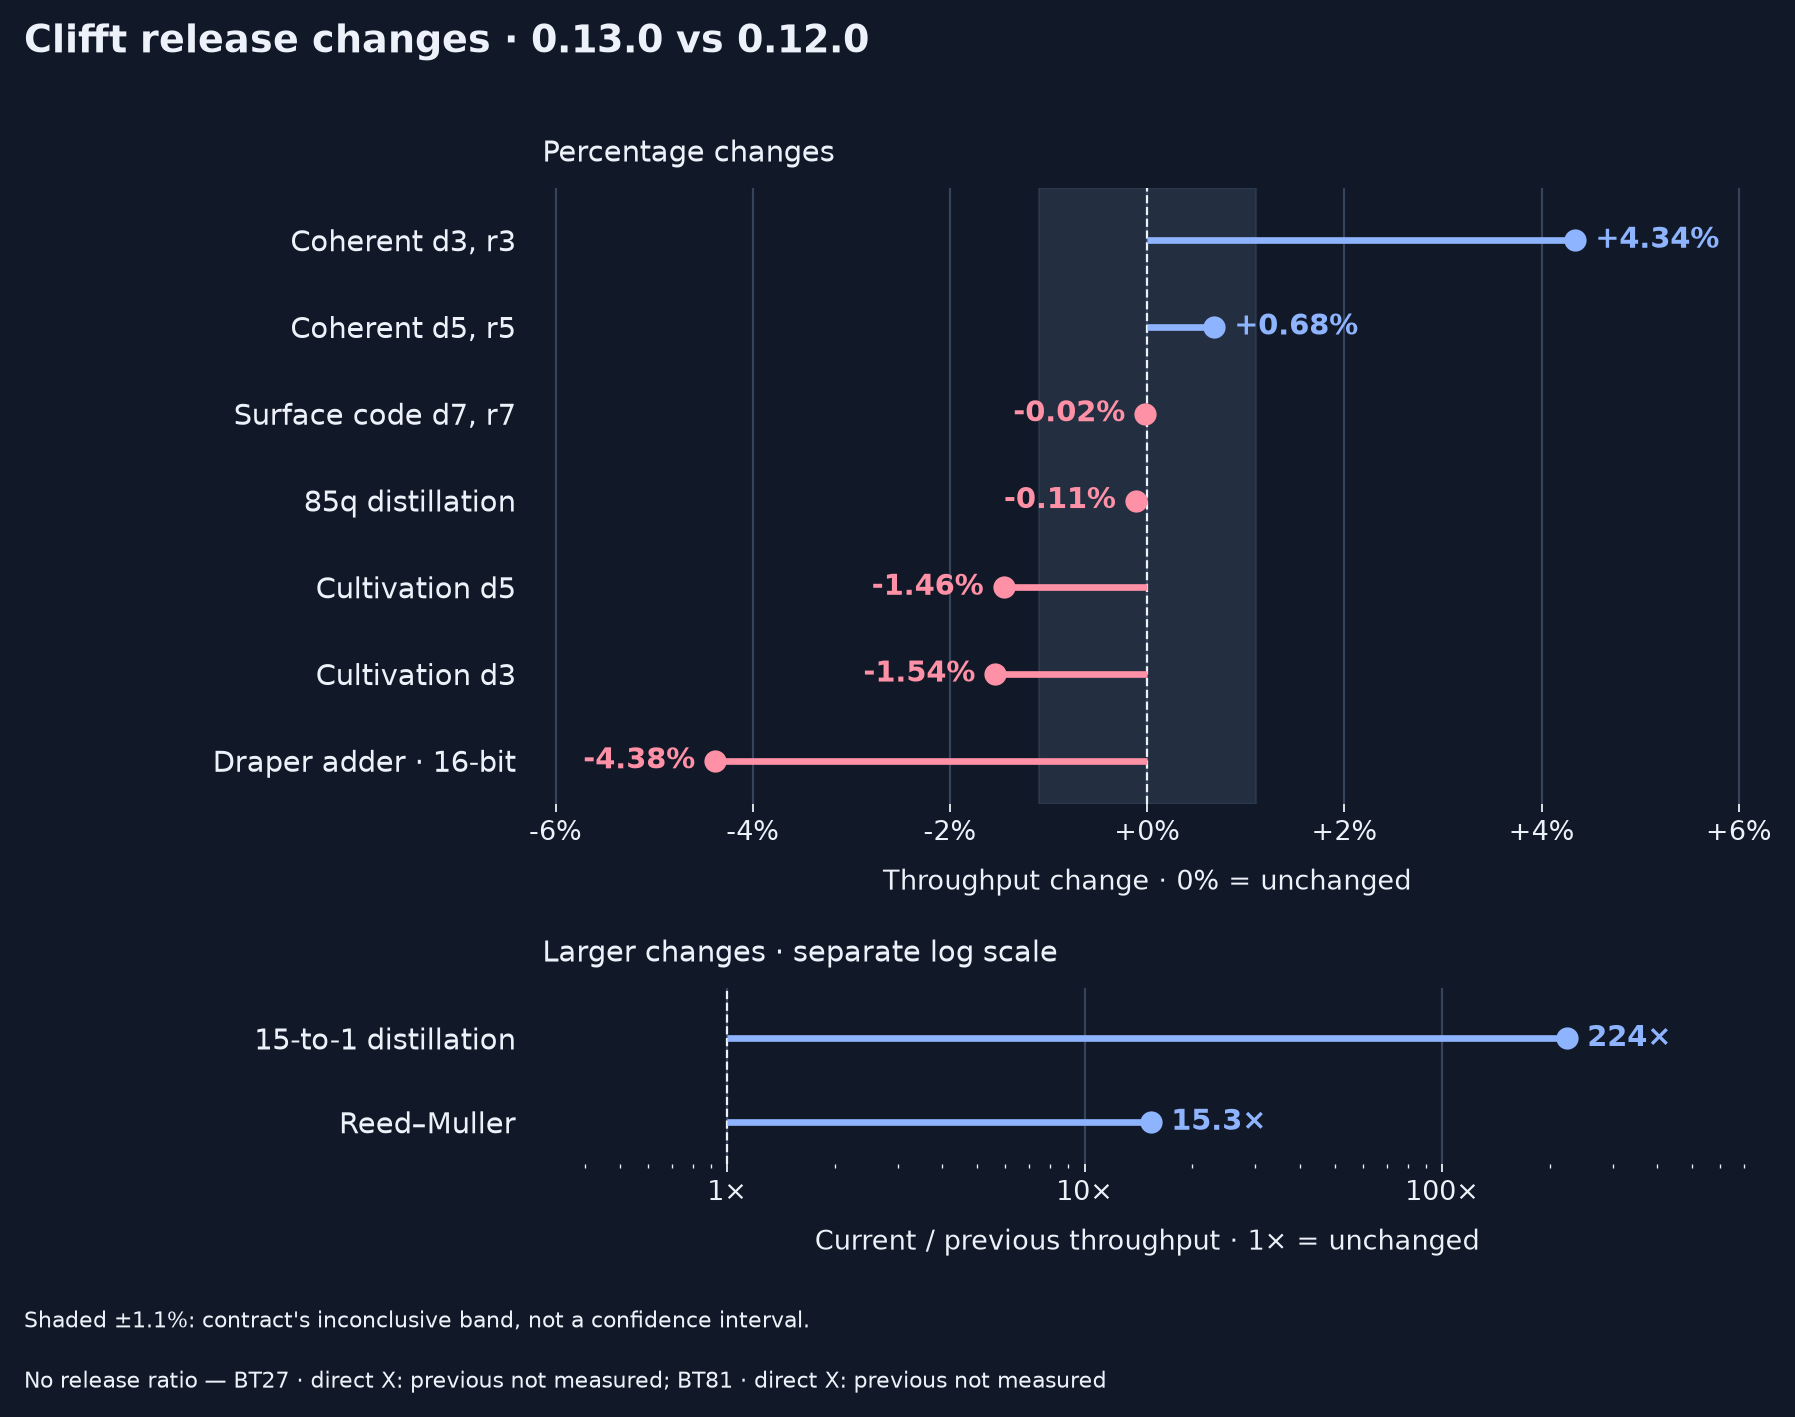
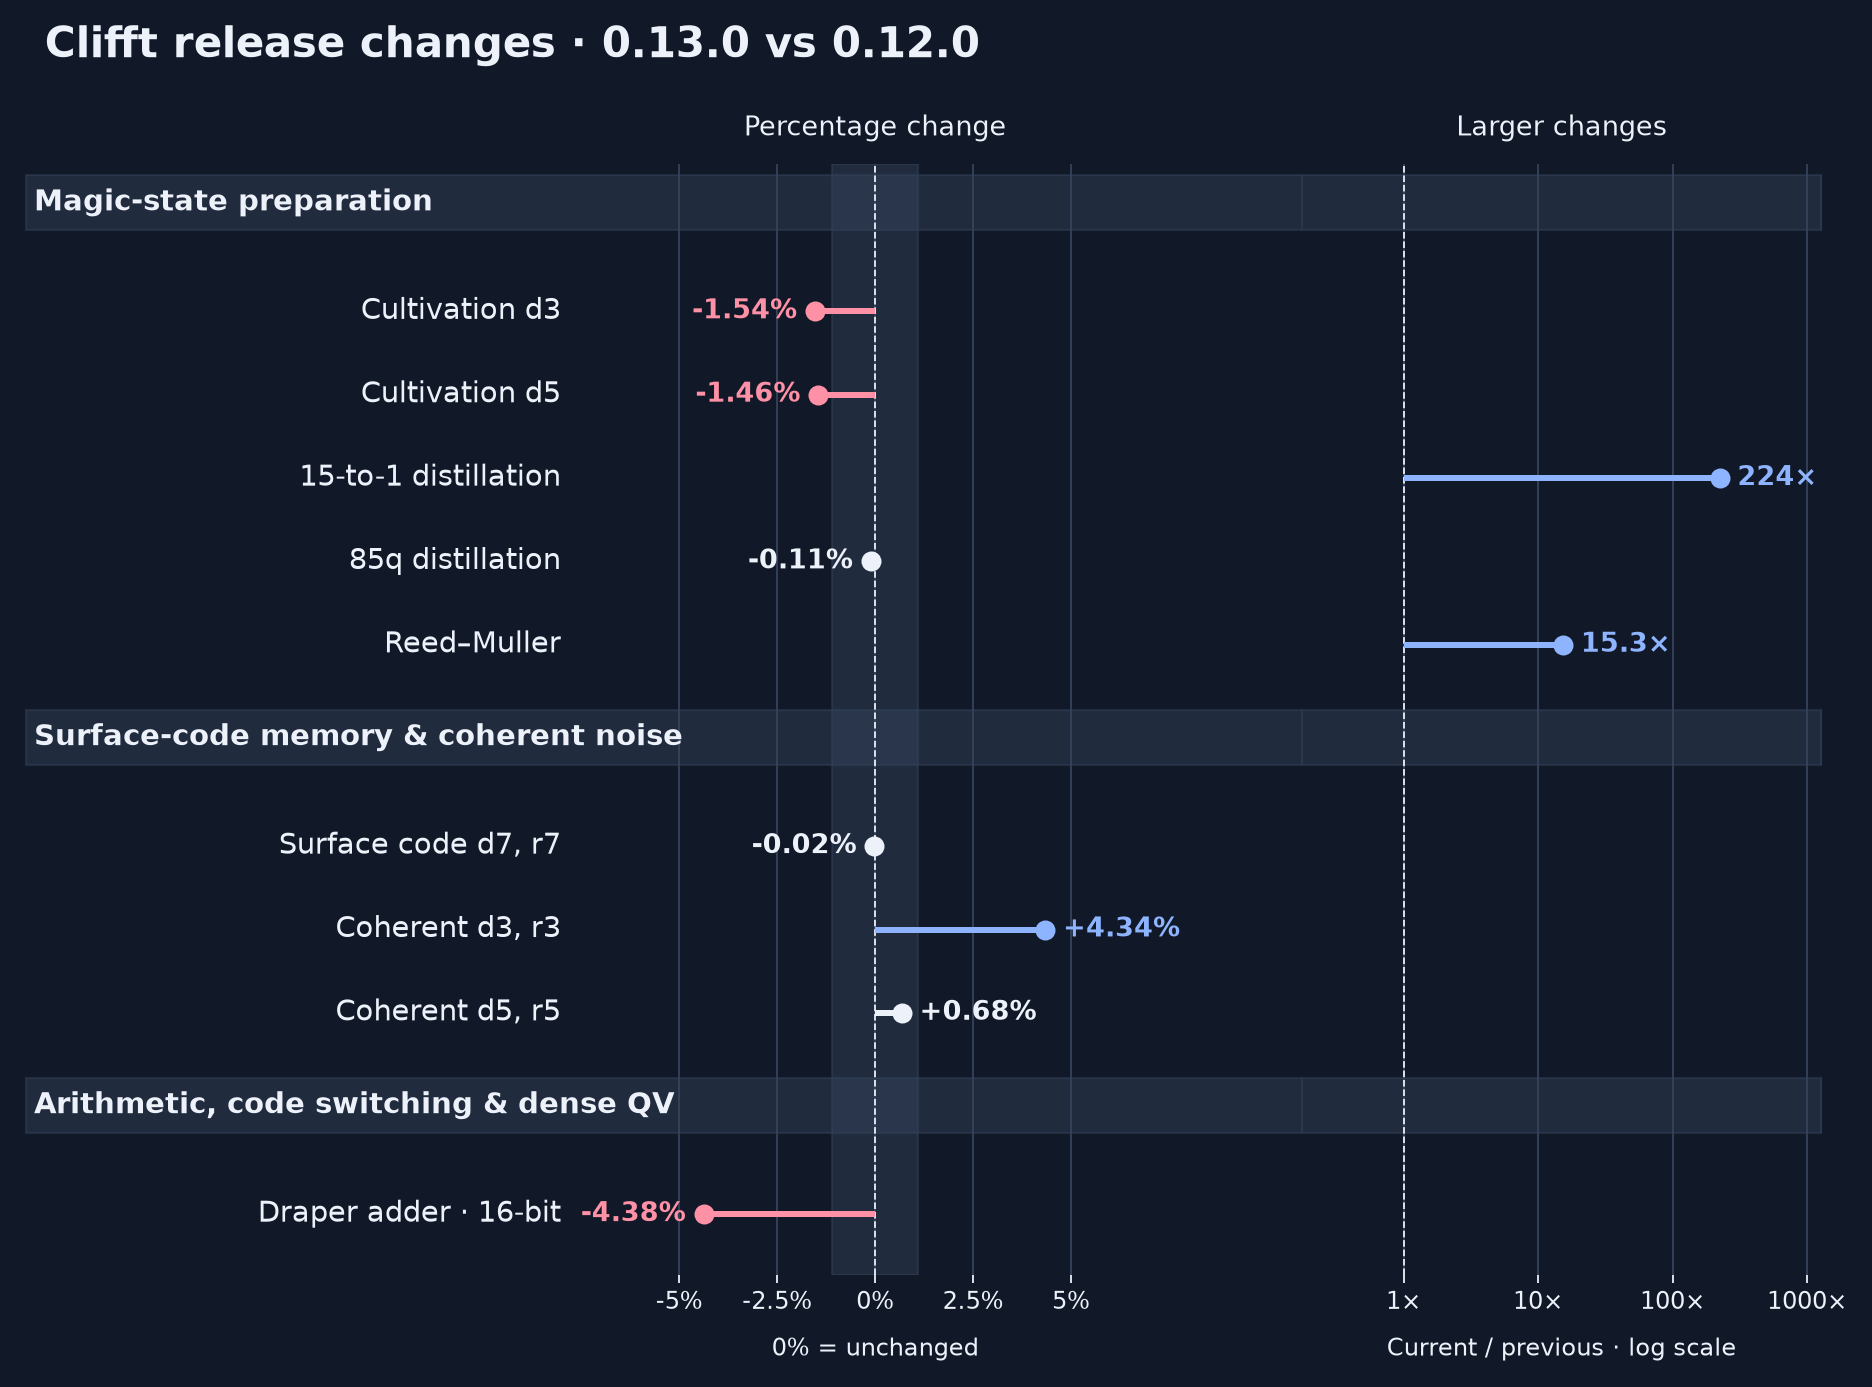
Regenerate grouped Clifft release figures
Assisted-by: Codex (GPT-6) <noreply@openai.com>

diff --git a/results/release-v1/0.13.0rc1-20261103-183623/report/review.md b/results/release-v1/0.13.0rc1-20261103-183623/report/review.md
@@ -188,89 +188,25 @@ Bulk and short calls remain separate. Missing baselines are not regressions.
 ## Figures
 
 Rates count attempted shots and exclude compilation; lazy planning during sampling
-is included. Workload call sizes appear on each row. Colors and marker shapes
-identify implementations consistently across figures. Unsupported pairings have
+is included. The main figures share circuit selection and thematic ordering.
+Selection-off controls, the unverified cultivation proxy, and bulk-call variants
+remain in the detailed results above. Colors and marker shapes identify simulators.
+Unsupported pairings have
 no marker; unmeasured and failed cases are labeled. Exact identities and outcomes
-are recorded above and in cases.csv.
+are recorded above. Call sizes are in cases.csv; postselection settings are in raw.json.
 
 Release changes within ±50% use a linear percentage axis; larger changes use
 a separate logarithmic ratio panel. The shaded ±1.1% band is the contract's
 inconclusive region, not a confidence interval. Unpaired workloads have no ratio.
 
-### Clifft — QEC · all-detector postselection
-
-[Dark version](clifft-throughput-dark.png)
-
-![Clifft — QEC · all-detector postselection](clifft-throughput-light.png)
-
-### Clifft — Arithmetic and code switching · postselection off
-
-[Dark version](clifft-throughput-2-dark.png)
-
-![Clifft — Arithmetic and code switching · postselection off](clifft-throughput-2-light.png)
-
-### Clifft — Bulk calls
-
-[Dark version](clifft-throughput-3-dark.png)
-
-![Clifft — Bulk calls](clifft-throughput-3-light.png)
-
-### Clifft — Selection controls · postselection off
-
-[Dark version](clifft-throughput-4-dark.png)
-
-![Clifft — Selection controls · postselection off](clifft-throughput-4-light.png)
-
-### Clifft — Dense Quantum Volume · repeated sampling
-
-[Dark version](clifft-throughput-5-dark.png)
-
-![Clifft — Dense Quantum Volume · repeated sampling](clifft-throughput-5-light.png)
-
-### Clifft — Cultivation stress workloads
-
-[Dark version](clifft-throughput-6-dark.png)
-
-![Clifft — Cultivation stress workloads](clifft-throughput-6-light.png)
-
-### CPU simulators — QEC · all-detector postselection
+### CPU simulator throughput
 
 [Dark version](simulator-throughput-dark.png)
 
-![CPU simulators — QEC · all-detector postselection](simulator-throughput-light.png)
+![CPU simulator throughput](simulator-throughput-light.png)
 
-### CPU simulators — Arithmetic and code switching · postselection off
-
-[Dark version](simulator-throughput-2-dark.png)
-
-![CPU simulators — Arithmetic and code switching · postselection off](simulator-throughput-2-light.png)
-
-### CPU simulators — Bulk calls
-
-[Dark version](simulator-throughput-3-dark.png)
-
-![CPU simulators — Bulk calls](simulator-throughput-3-light.png)
-
-### CPU simulators — Selection controls · postselection off
-
-[Dark version](simulator-throughput-4-dark.png)
-
-![CPU simulators — Selection controls · postselection off](simulator-throughput-4-light.png)
-
-### CPU simulators — Dense Quantum Volume · repeated sampling
-
-[Dark version](simulator-throughput-5-dark.png)
-
-![CPU simulators — Dense Quantum Volume · repeated sampling](simulator-throughput-5-light.png)
-
-### CPU simulators — Cultivation stress workloads
-
-[Dark version](simulator-throughput-6-dark.png)
-
-![CPU simulators — Cultivation stress workloads](simulator-throughput-6-light.png)
-
-### Release changes
+### Clifft release changes
 
 [Dark version](release-change-dark.png)
 
-![Release changes](release-change-light.png)
+![Clifft release changes](release-change-light.png)
